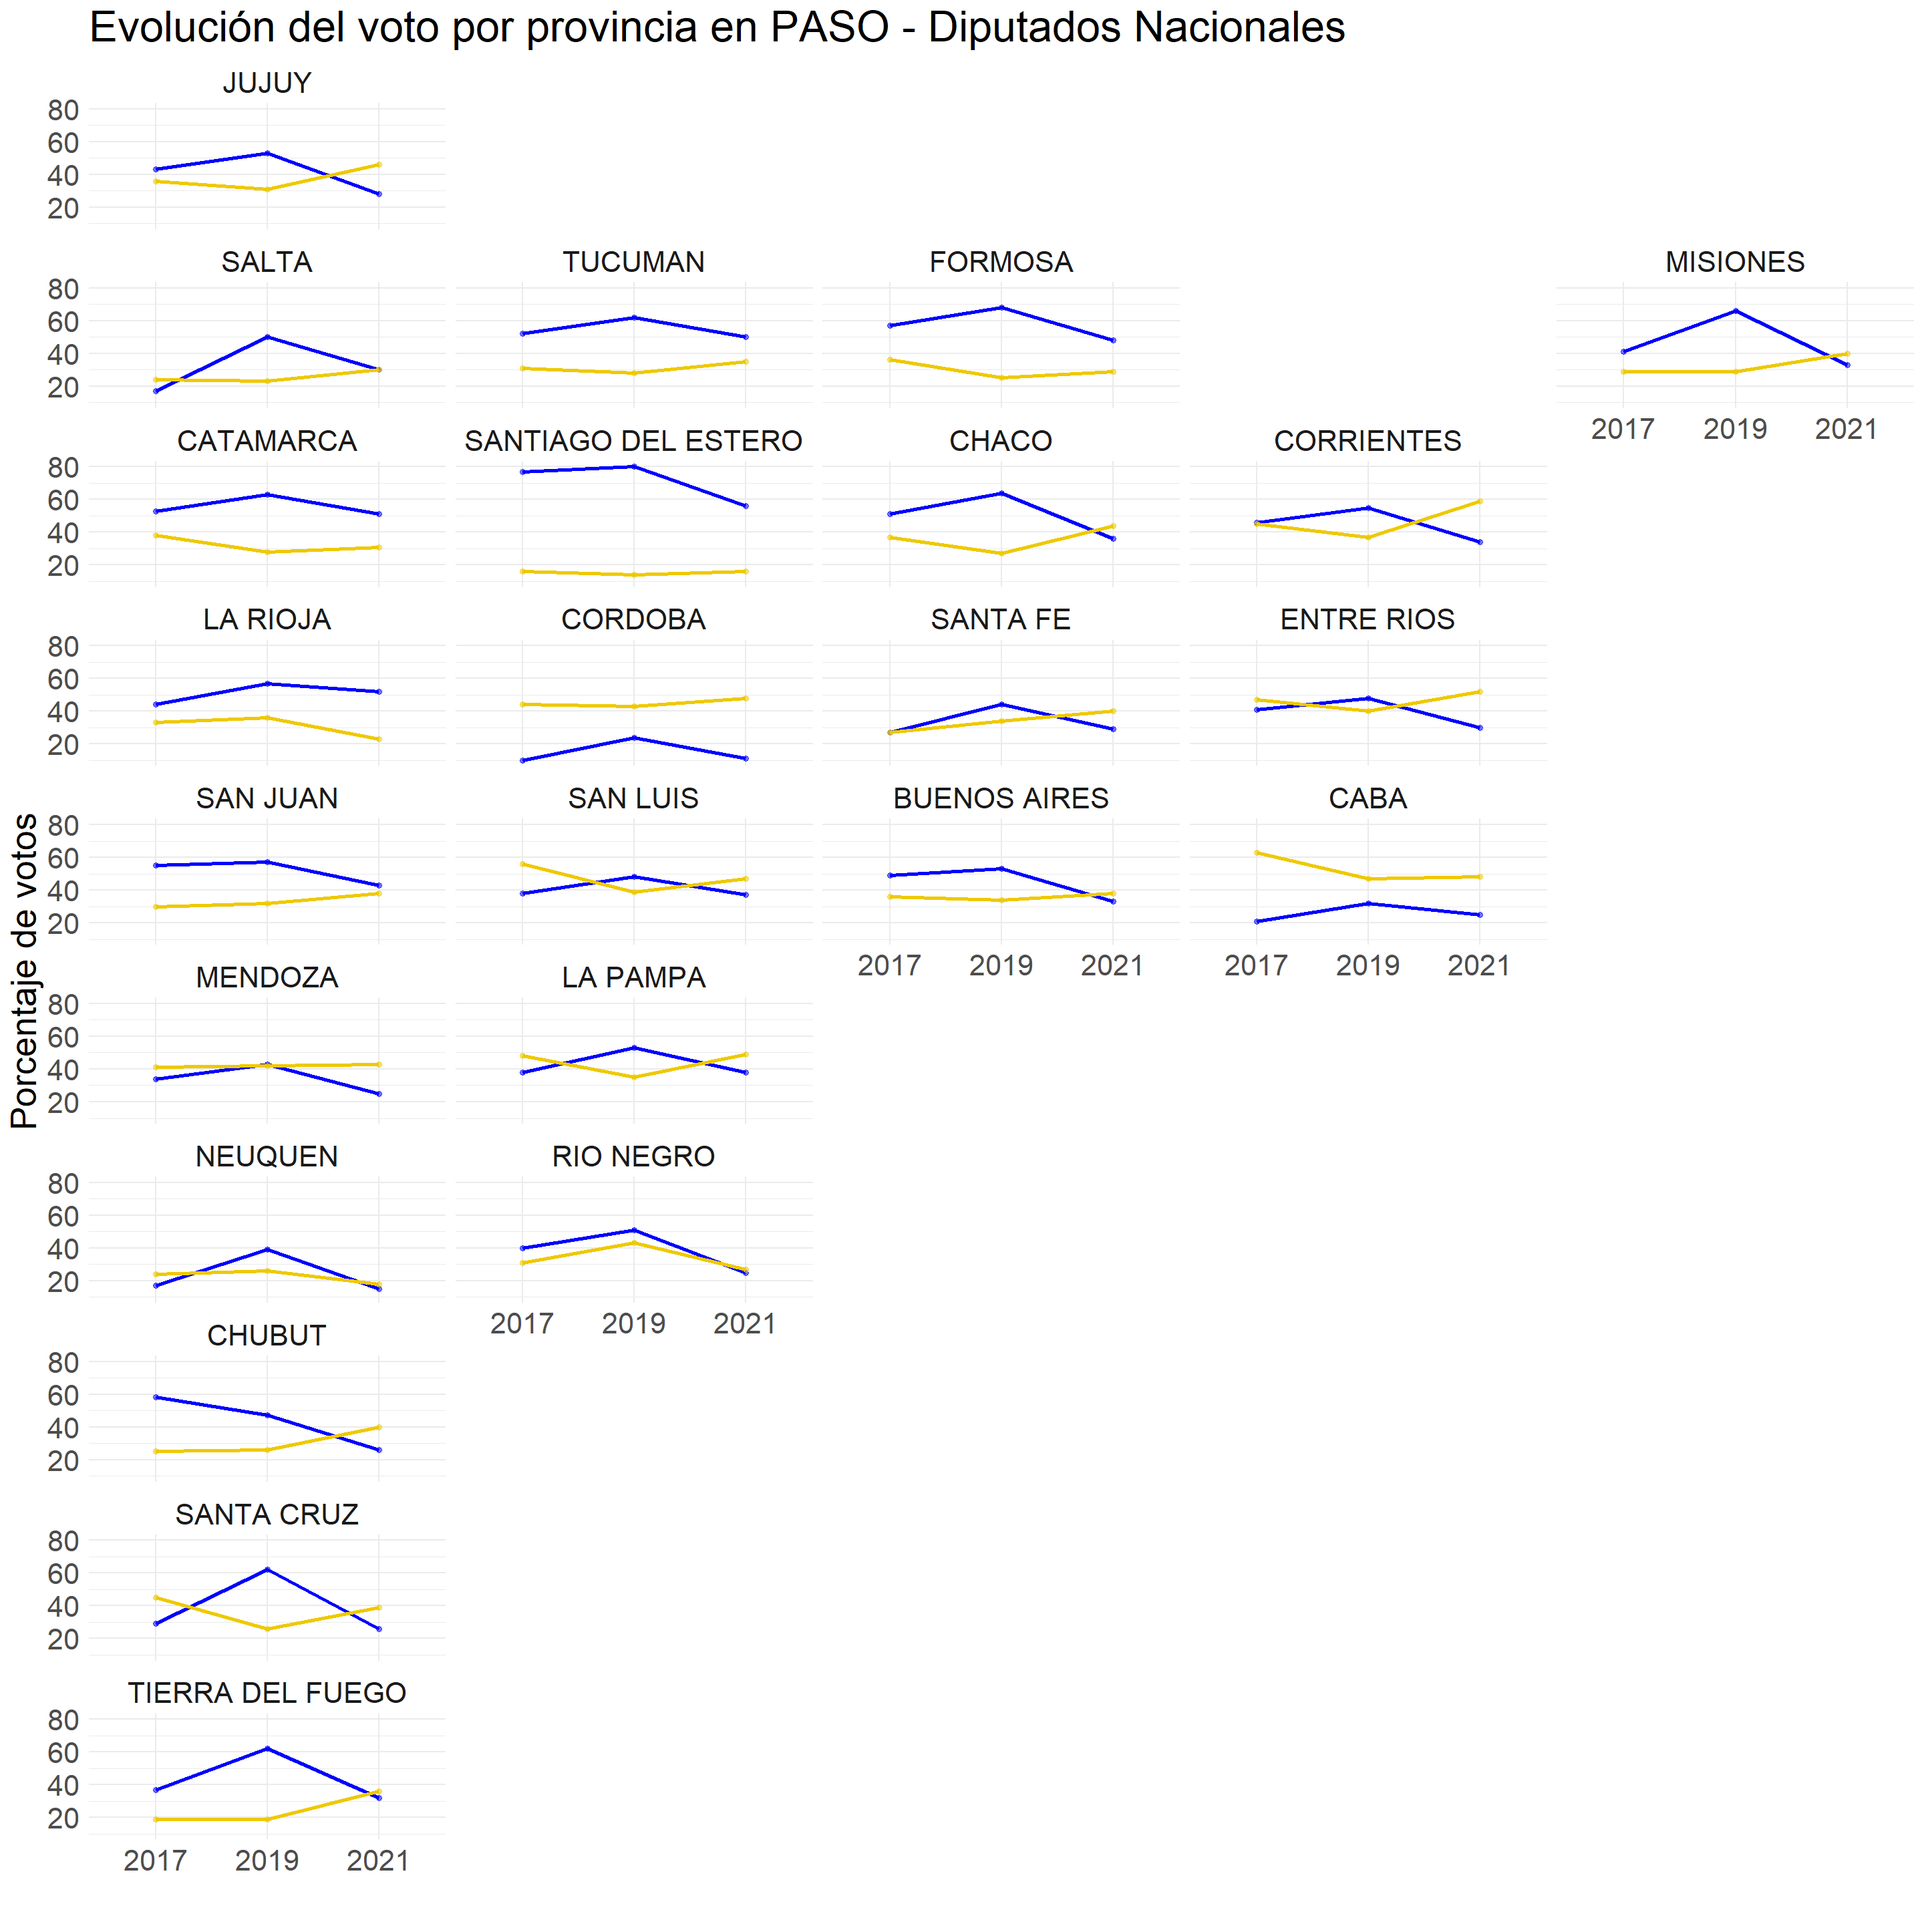
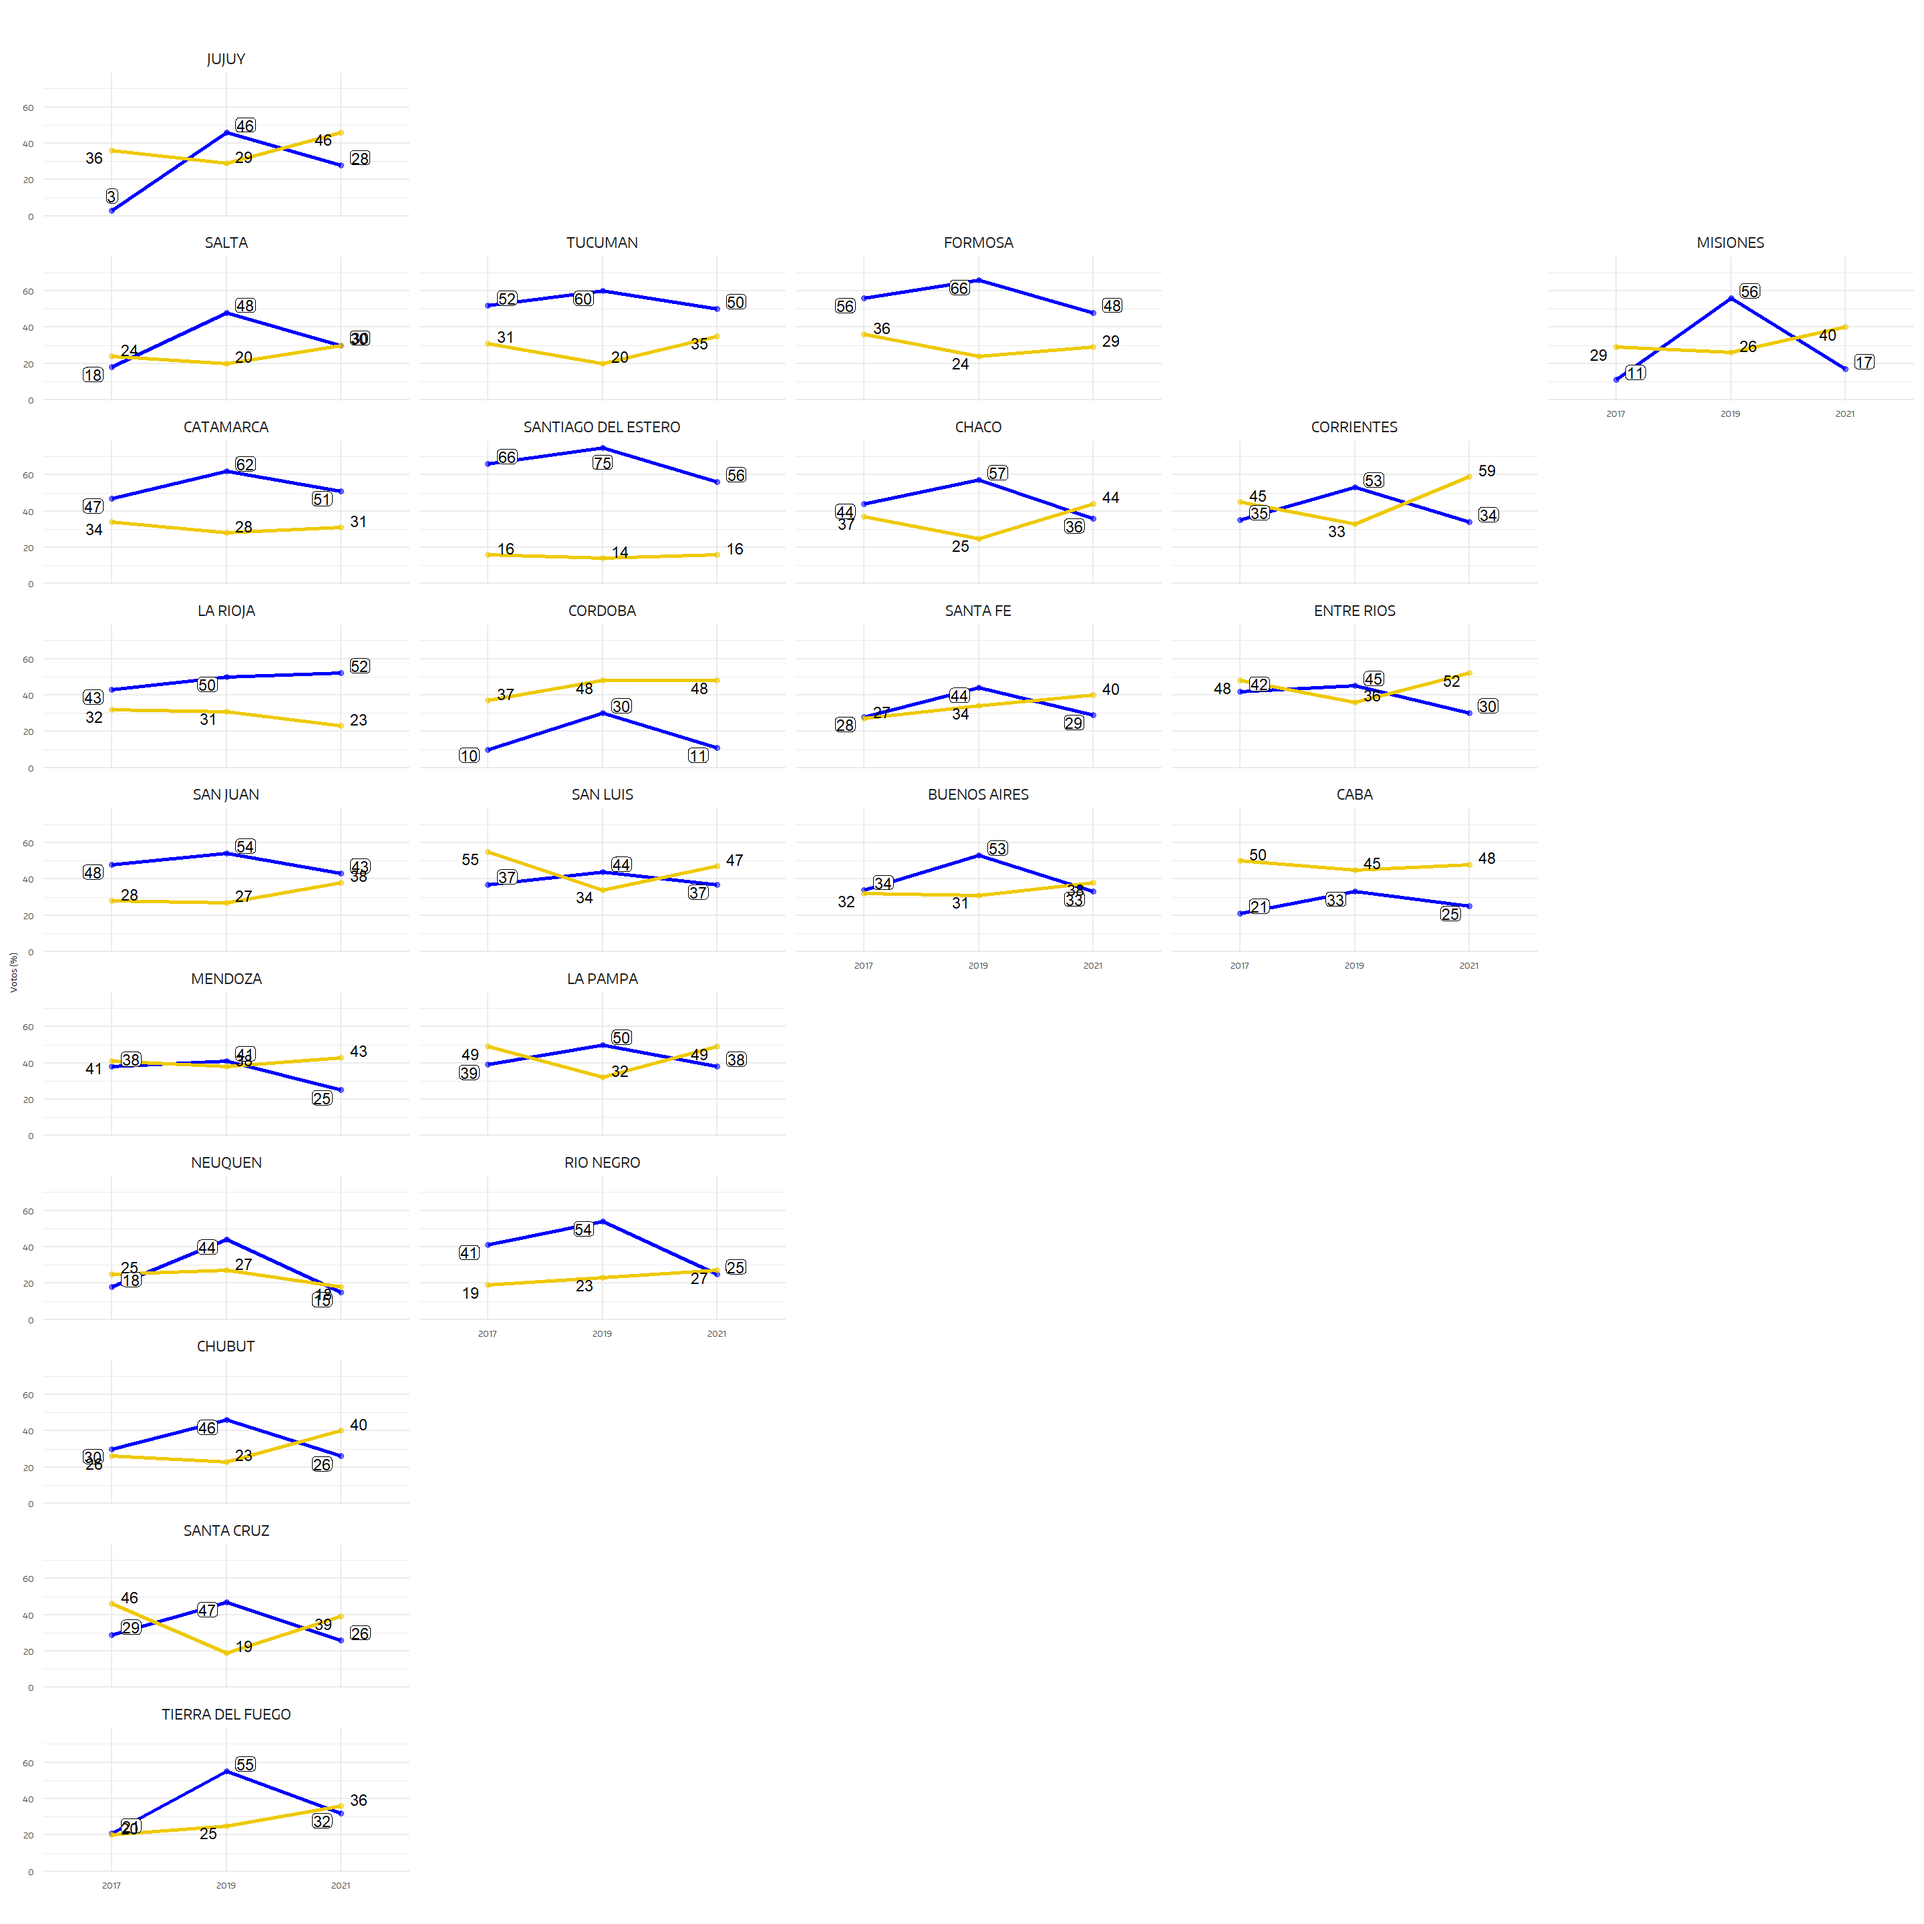
slope update

diff --git a/content/Tendencia.html b/content/Tendencia.html
@@ -21,4 +21,54 @@ tags: []
 <h4><strong>El gráfico a continuación toma el porcentaje de votos válidos a nivel provincial que el Frente de Todos y Juntos por el Cambio obtuvieron en la categoría a diputados nacionales en las últimas tres elecciones primarias (2017, 2019 y 2021)</strong></h4>
 <hr />
 <p><img src="/Tendencia_files/figure-html/fig1-1.png" width="1440" /></p>
+<pre><code>## # A tibble: 30 x 5
+##    name_es             porc_FDT porc_CAMBIEMOS id_distrito  year
+##    &lt;chr&gt;                  &lt;dbl&gt;          &lt;dbl&gt; &lt;chr&gt;       &lt;dbl&gt;
+##  1 CATAMARCA                 51             31 03           2021
+##  2 CORRIENTES                34             59 05           2021
+##  3 CHACO                     36             44 06           2021
+##  4 FORMOSA                   48             29 09           2021
+##  5 JUJUY                     28             46 10           2021
+##  6 LA RIOJA                  52             23 12           2021
+##  7 MISIONES                  17             40 14           2021
+##  8 SALTA                     30             30 17           2021
+##  9 SANTIAGO DEL ESTERO       56             16 22           2021
+## 10 TUCUMAN                   50             35 23           2021
+## # ... with 20 more rows</code></pre>
+<pre><code>## # A tibble: 24 x 5
+##    name_es      porc_FDT porc_CAMBIEMOS id_distrito  year
+##    &lt;chr&gt;           &lt;dbl&gt;          &lt;dbl&gt; &lt;chr&gt;       &lt;dbl&gt;
+##  1 CABA               25             48 01           2021
+##  2 BUENOS AIRES       33             38 02           2021
+##  3 CORDOBA            11             48 04           2021
+##  4 ENTRE RIOS         30             52 08           2021
+##  5 MENDOZA            25             43 13           2021
+##  6 SAN JUAN           43             38 18           2021
+##  7 SAN LUIS           37             47 19           2021
+##  8 SANTA FE           29             40 21           2021
+##  9 CABA               21             50 01           2017
+## 10 BUENOS AIRES       34             32 02           2017
+## # ... with 14 more rows</code></pre>
+<pre><code>## # A tibble: 18 x 5
+##    name_es          porc_FDT porc_CAMBIEMOS id_distrito  year
+##    &lt;chr&gt;               &lt;dbl&gt;          &lt;dbl&gt; &lt;chr&gt;       &lt;dbl&gt;
+##  1 CHUBUT                 26             40 07           2021
+##  2 LA PAMPA               38             49 11           2021
+##  3 NEUQUEN                15             18 15           2021
+##  4 RIO NEGRO              25             27 16           2021
+##  5 SANTA CRUZ             26             39 20           2021
+##  6 TIERRA DEL FUEGO       32             36 24           2021
+##  7 CHUBUT                 30             26 07           2017
+##  8 LA PAMPA               39             49 11           2017
+##  9 NEUQUEN                18             25 15           2017
+## 10 RIO NEGRO              41             19 16           2017
+## 11 SANTA CRUZ             29             46 20           2017
+## 12 TIERRA DEL FUEGO       21             20 24           2017
+## 13 CHUBUT                 46             23 07           2019
+## 14 LA PAMPA               50             32 11           2019
+## 15 NEUQUEN                44             27 15           2019
+## 16 RIO NEGRO              54             23 16           2019
+## 17 SANTA CRUZ             47             19 20           2019
+## 18 TIERRA DEL FUEGO       55             25 24           2019</code></pre>
+<p><img src="/Tendencia_files/figure-html/fig2-1.png" width="1440" /></p>
 </div>
